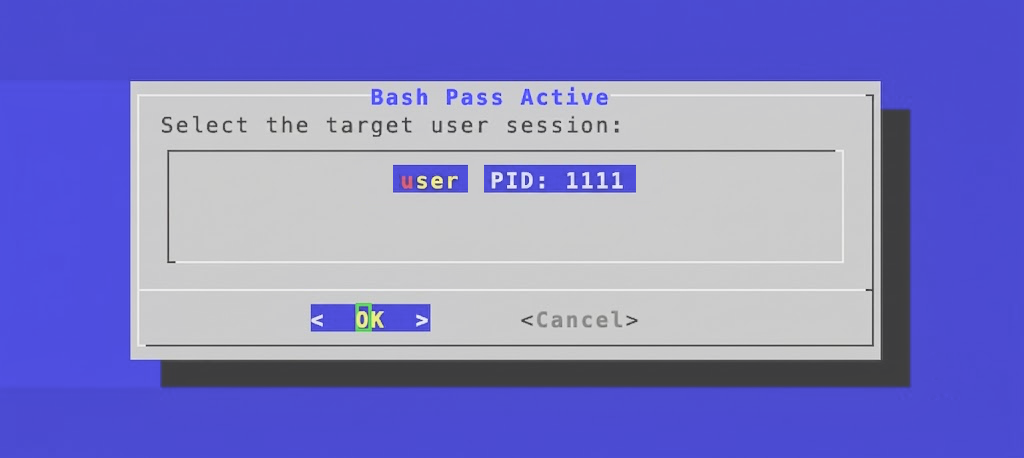
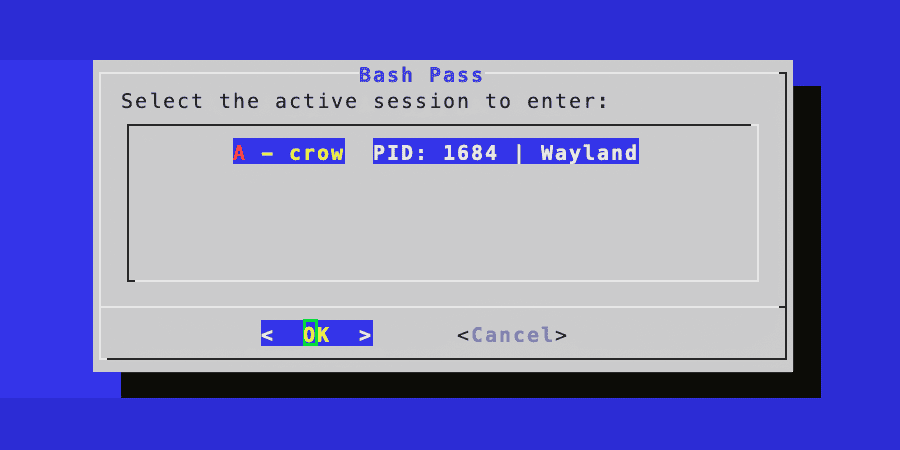
Final Touches

diff --git a/README.md b/README.md
@@ -14,9 +14,7 @@ Run terminal inside an active session from ssh, as if the terminal window was on
 
 | Dependencies |
 | --- |
-| dialog |
-| wayland |
-| KDE Plasma |
+| whiptail or dialog |
 
 ## Installation & Use
 ### Installation Steps
@@ -29,13 +27,14 @@ Run terminal inside an active session from ssh, as if the terminal window was on
 **Bash Pass is meant to be used through SSH from another device.**
 
 1. Connect to a host with Bash Pass, run the shell **with sudo privilege**. 
-2. A menu will appear showing the detected sessions. Using the keyboard or mouse select the desired session. 
-3. After selection of the desired session, the menu will automatically close and the terminal will clear and confirm the new session you are controlling. 
+2. A menu will appear showing the detected sessions. Using the keyboard select the desired session. 
+3. After selection of the desired session, the menu will automatically close and the terminal will clear and confirm the new session you are controlling.<br><img src="./Assets/pass.png" width="350"/><br>
+*This is an example showing Bash Pass signing into a session for a user named "crow" on a system named "Cawnsole".*
+
 4. Run any commands now as if you were running them locally in the selected active session.
 
 To leave the session use:
->exit
 
-<img src="./Assets/pass.png" width="350"/>
+>exit 
 
-*This is an example showing Bash Pass signing into a session for a user named "crow" on a system named "Cawnsole".*
+<img src="./Assets/exit.png" width="350"/>